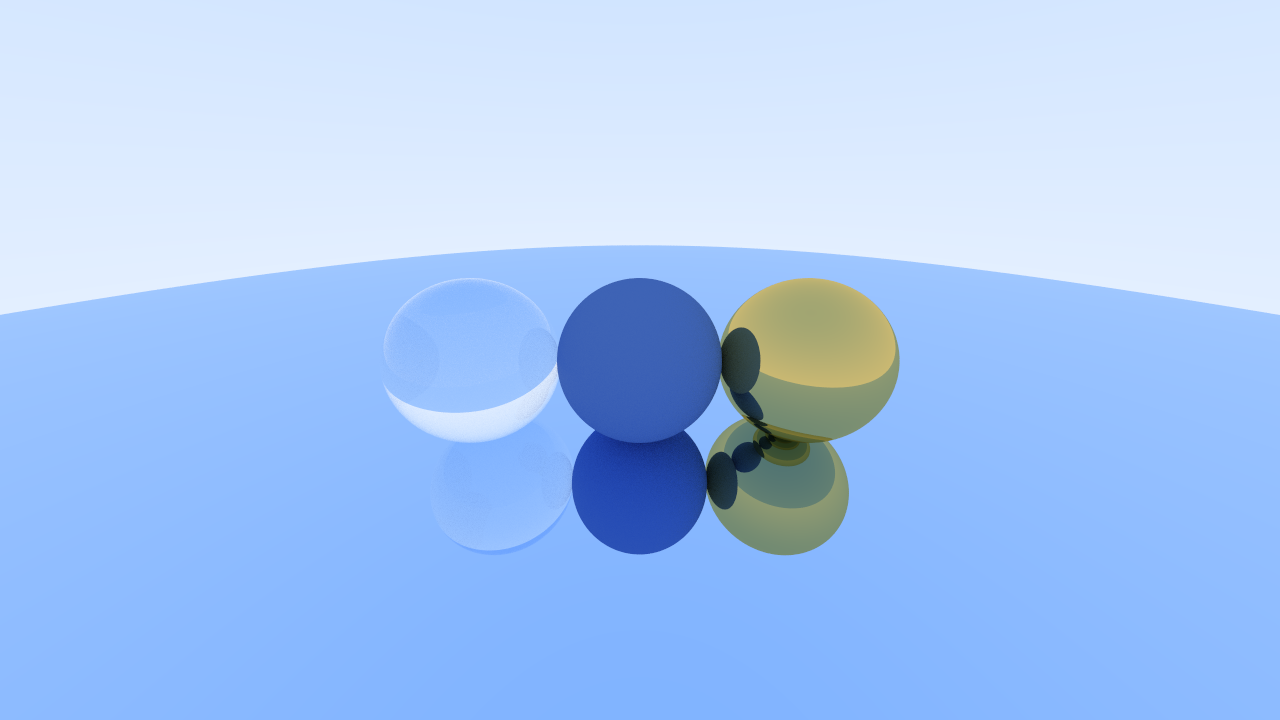
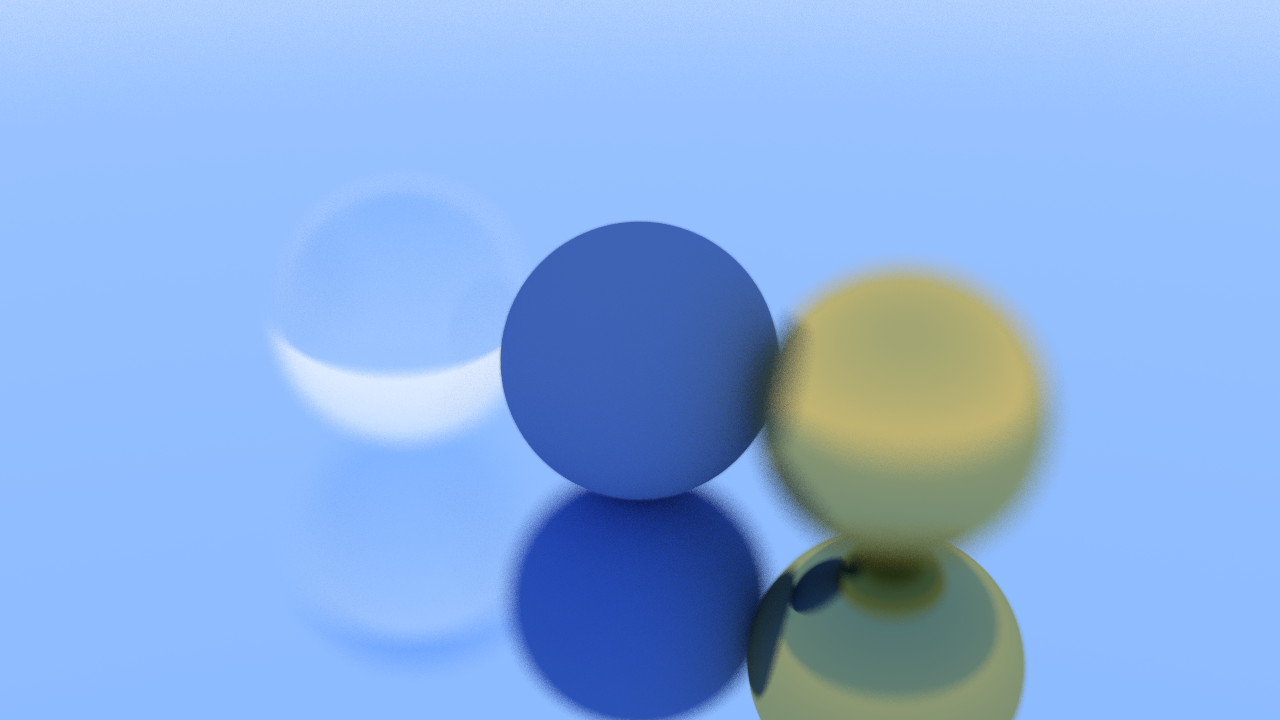
Update Ch11_DefocusBlur

diff --git a/RayTracingInOneWeekEndCUDA/Camera.h b/RayTracingInOneWeekEndCUDA/Camera.h
@@ -4,21 +4,24 @@
 
 #include "Ray.h"
 #include "Constants.h"
+#include "Utils.h"
 
 class Camera {
 public:
-    CUDA_HOST_DEVICE Camera(const Float3& inEye, const Float3& inCenter, const Float3& inUp, Float inAspectRatio, Float inFOV = 90.0f) {
-        initialize(inEye, inCenter, inUp, inAspectRatio, inFOV);
+    CUDA_HOST_DEVICE Camera(const Float3& inEye, const Float3& inCenter, const Float3& inUp, Float inAspectRatio, 
+                            Float inFOV = 90.0f, Float inAperture = 2.0f, Float inFocusDistance = 1.0f) {
+        initialize(inEye, inCenter, inUp, inAspectRatio, inFOV, inAperture, inFocusDistance);
     }
 
-    CUDA_HOST_DEVICE void initialize(const Float3& inEye, const Float3& inCenter, const Float3& inUp, Float inAspectRatio, Float inFOV = 90.0f) {
+    CUDA_HOST_DEVICE void initialize(const Float3& inEye, const Float3& inCenter, const Float3& inUp, Float inAspectRatio, 
+                                     Float inFOV = 90.0f, Float inAperture = 2.0f, Float inFocusDistance = 1.0f) {
         eye = inEye;
         center = inCenter;
         up = inUp;
         aspectRatio = inAspectRatio;
         fov = inFOV;
-
-        focalLength = 1.0f;
+        aperture = inAperture;
+        focusDistance = inFocusDistance;
         cameraSpeed = 6.0f;
 
         scale = tan(Math::radians(fov / 2.0f));
@@ -87,32 +90,71 @@ public:
             trueUp = cross(right, forward);
 
             origin = eye;
-            horizontal = viewportWidth * right;
-            vertical = viewportHeight * trueUp;
-            lowerLeftCorner = origin - horizontal / 2.0f - vertical / 2.0f + forward;
+            horizontal = viewportWidth * right * focusDistance;
+            vertical = viewportHeight * trueUp * focusDistance;
+            lowerLeftCorner = origin - horizontal / 2.0f - vertical / 2.0f + forward * focusDistance;
+
+            updateLensRadius();
         }
     }
 
-    bool isDirty() const {
+    CUDA_HOST_DEVICE inline void setAperture(Float inAperture) {
+        aperture = inAperture;
+        updateLensRadius();
+    }
+
+    CUDA_HOST_DEVICE inline void updateLensRadius() {
+        bIsDirty = true;
+        lensRadius = aperture / 2.0f;
+    }
+    
+    CUDA_HOST_DEVICE inline Float getAperture() const {
+        return aperture;
+    }
+
+    CUDA_HOST_DEVICE inline Float& getAperture() {
+        return aperture;
+    }
+
+    inline void setDirty() {
+        bIsDirty = true;
+    }
+
+    inline bool isDirty() const {
         return bIsDirty;
     }
 
-    void resetDiryFlag() {
+    inline void resetDiryFlag() {
         bIsDirty = false;
     }
 
-    CUDA_DEVICE inline Ray getRay(Float dx, Float dy) {
-        auto direction = lowerLeftCorner + dx * horizontal + dy * vertical - origin;
-        return Ray(origin, normalize(direction));
+    CUDA_DEVICE inline Ray getRay(Float dx, Float dy, curandState* randState) {
+        // Normally, all scene rays originate from the eye point.
+        // In order to accomplish defocus blur, generate random 
+        // scene rays originating from inside a disk centered at 
+        // the eye point.The larger the radius, the greater the 
+        // defocus blur.You can think of our original camera as 
+        // having a defocus disk of radius zero(no blur at all), 
+        // so all rays originated at the disk center(eye).
+        auto random = lensRadius * Utils::randomInUnitDisk(randState);
+
+        // Offset from lens center
+        auto offset = right * random.x + trueUp * random.y;
+
+        auto newOrigin = origin + offset;
+        auto direction = lowerLeftCorner + dx * horizontal + dy * vertical - newOrigin;
+        return Ray(origin + offset, normalize(direction));
     }
 private:
     Float aspectRatio;
-    Float focalLength = 1.0f;
     Float fov;
     Float scale = 1.0f;
     Float viewportHeight;
     Float viewportWidth;
     Float cameraSpeed = 6.0f;
+    Float aperture;
+    Float focusDistance;
+    Float lensRadius;
 
     Float3 eye;
     Float3 center;

diff --git a/RayTracingInOneWeekEndCUDA/OpenGLFrontend.cpp b/RayTracingInOneWeekEndCUDA/OpenGLFrontend.cpp
@@ -26,20 +26,19 @@ void onFrameBufferResize(GLFWwindow* window, int width, int height);
 void processInput(GLFWwindow* window);
 
 // settings
-bool bShowDemoWindow = true;
-bool bShowAnotherWindow = true;
+bool bShowDemoWindow = false;
+bool bShowAnotherWindow = false;
 bool bShowOpenMenuItem = true;
 
 GLFWwindow* window = nullptr;
 
-float frameTime = 0.0f;
-
+Float frameTime = 0.0f;
 bool bRightMouseButtonDown = false;
 bool bMiddleMouseButtonDown = false;
 
 Float2 lastMousePosition = { 0.0f, 0.0f };
 
-float rotateSpeed = 1.0f;
+Float rotateSpeed = 1.0f;
 
 void APIENTRY glDebugOutput(GLenum source,
     GLenum type,
@@ -185,7 +184,9 @@ void buildImGuiWidgets() {
         //ImGui::PopFont();
         ImGui::Checkbox("Demo Window", &bShowDemoWindow);      // Edit bools storing our window open/close state
         ImGui::Checkbox("Another Window", &bShowAnotherWindow);
-
+  /*      if (ImGui::SliderFloat("Aperture", &camera->getAperture(), 0.0f, 2.0f)) {
+            camera->setDirty();
+        }*/
         //ImGui::ColorEdit3("Ambient", (float*)&commonMaterial->Ka); // Edit 1 float using a slider from 0.1f to 1.0f
         //ImGui::SliderFloat("Reflection", &commonMaterial->reflectionFactor, 0.0f, 1.0f);
         //ImGui::SliderFloat("Refraction", &commonMaterial->refractionFactor, 0.0f, 1.0f);
@@ -211,8 +212,12 @@ void buildImGuiWidgets() {
         ImGui::SameLine();
         ImGui::Text("counter = %d", counter);
 
+        auto frameTimeMS = 1000.0f / ImGui::GetIO().Framerate;
+
         ImGui::Text("Application average %.3f ms/frame (%.1f FPS)", 1000.0f / ImGui::GetIO().Framerate, ImGui::GetIO().Framerate);
         ImGui::Text("Sample Count: %d", canvas->getSampleCount());
+
+        ImGui::Text("Rendering Time: %.3f ms", canvas->getRenderingTime());
 
         frameTime = 1.0f / ImGui::GetIO().Framerate;
 
@@ -546,7 +551,7 @@ void processInput(GLFWwindow* window) {
         camera->raise(-frameTime);
     }
 
-    camera->orbit(make_float3(0.0f, 0.0f, -1.0f));
+    //camera->orbit(make_float3(0.0f, 0.0f, -1.0f));
 
     camera->updateViewMatrix();
 }

diff --git a/RayTracingInOneWeekEndCUDA/Canvas.h b/RayTracingInOneWeekEndCUDA/Canvas.h
@@ -27,6 +27,9 @@ public:
     void initialize(int32_t inWidth, int32_t inHeight) {
         width = inWidth;
         height = inHeight;
+        sampleCount = 0;
+        renderingTime = 0.0f;
+
         auto size = static_cast<size_t>(width * height * 3);
 
         gpuErrorCheck(cudaMallocManaged(&pixelBuffer, sizeof(Buffer<uint8_t>*)));
@@ -163,8 +166,20 @@ public:
         sampleCount = 0;
     }
 
+    CUDA_HOST_DEVICE inline void resetRenderingTime() {
+        renderingTime = 0;
+    }
+
     CUDA_HOST_DEVICE inline uint32_t getSampleCount() const {
         return sampleCount;
+    }
+
+    CUDA_HOST_DEVICE inline Float getRenderingTime() {
+        return renderingTime;
+    }
+
+    CUDA_HOST_DEVICE inline void incrementRenderingTime() {
+        renderingTime += 16.0f;
     }
 
     CUDA_HOST_DEVICE inline void print() const {
@@ -180,6 +195,8 @@ private:
     int32_t width;
     int32_t height;
     uint32_t sampleCount;
+
+    Float renderingTime;
 };
 
 inline Canvas* createCanvas(int32_t width, int32_t height) {

diff --git a/RayTracingInOneWeekEndCUDA/cutil_math.h b/RayTracingInOneWeekEndCUDA/cutil_math.h
@@ -24,6 +24,7 @@
 #define CUTIL_MATH_H
 
 #include "cuda_runtime.h"
+#include "vector_functions.h"
 
 using uint = unsigned int;
 using ushort = unsigned short;
@@ -1437,4 +1438,21 @@ inline __device__ __host__ float3 rotateX(float3 v, float radian) {
     return make_float3(v.x, v.y * cos(radian) - v.z * sin(radian),
                             v.y * sin(radian) + v.z * cos(radian));
 }
+
+////////////////////////////////////////////////////////////////////////////////
+// Misc
+////////////////////////////////////////////////////////////////////////////////
+
+inline __device__ __host__ float3 color(float r, float g, float b) {
+    return make_float3(r, g, b);
+}
+
+inline __device__ __host__ float3 vector(float x, float y, float z) {
+    return make_float3(x, y, z);
+}
+
+inline __device__ __host__ float3 position(float x, float y, float z) {
+    return make_float3(x, y, z);
+}
+
 #endif
